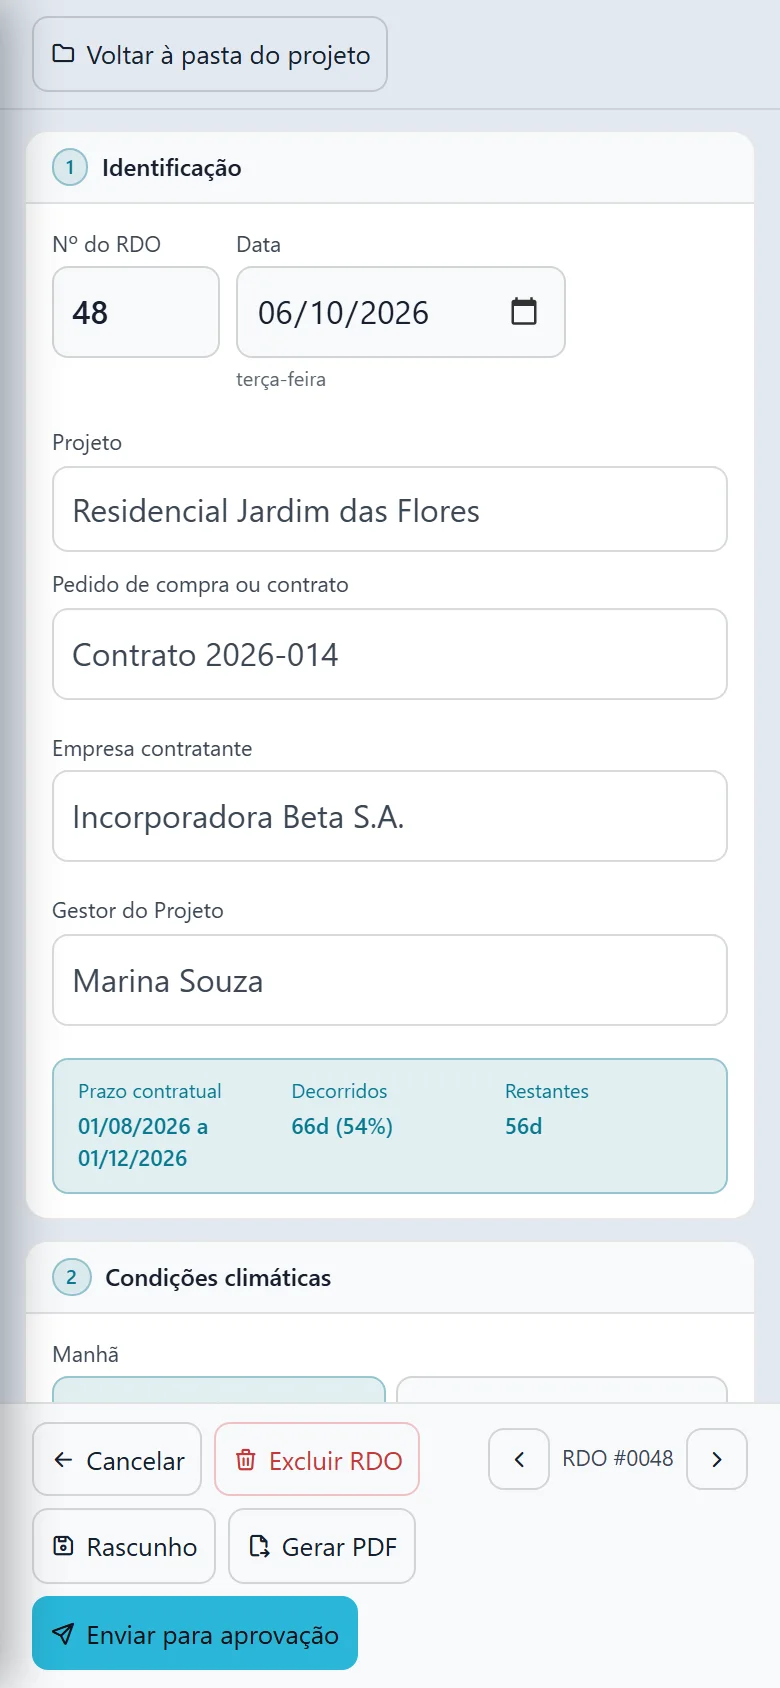
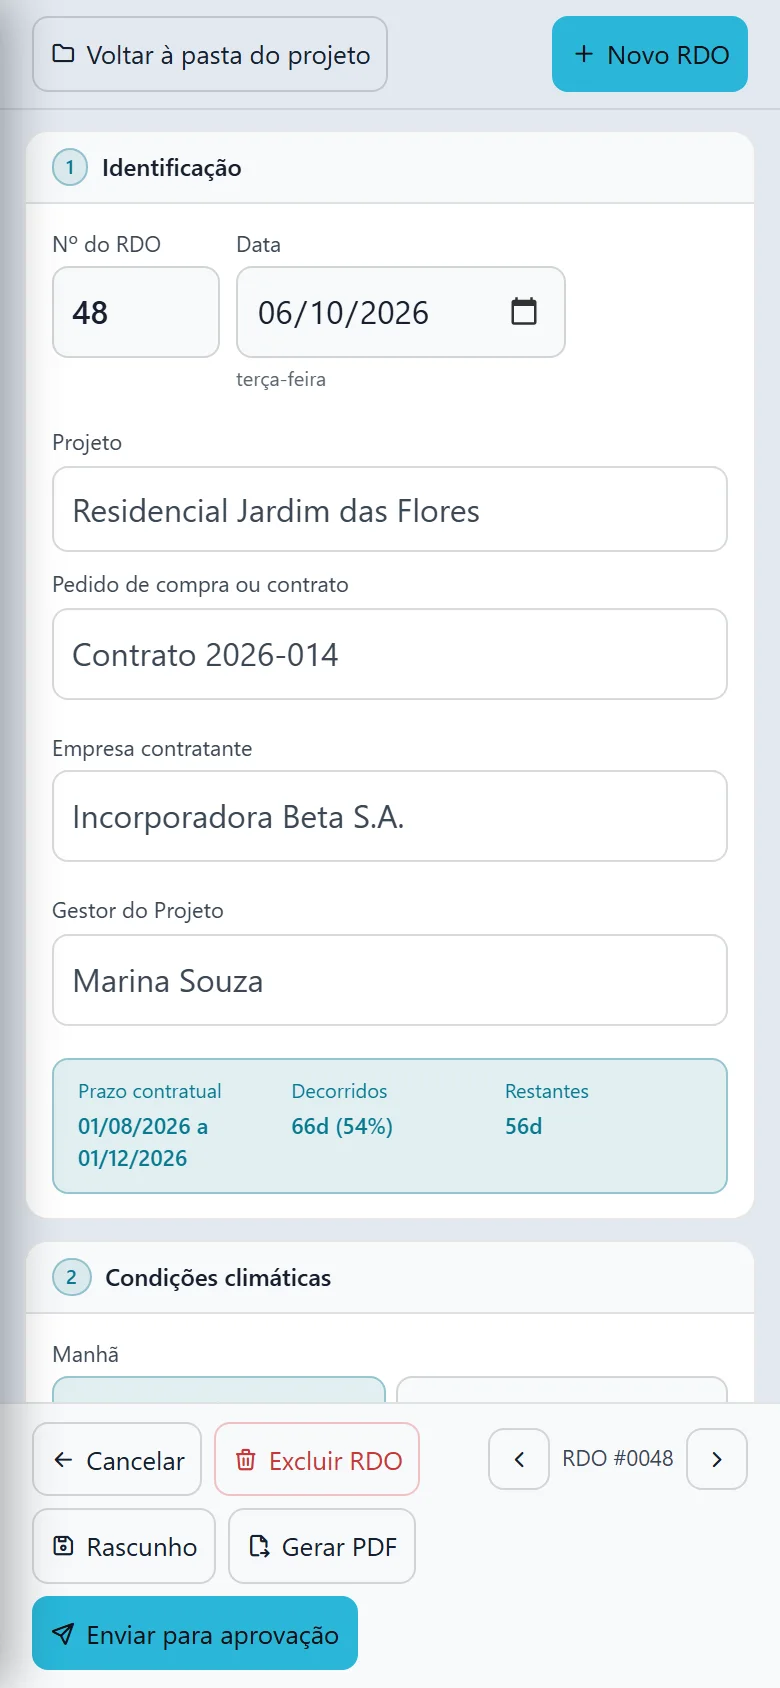
RDO: depois de enviar para aprovação continua na página do RDO e ganha botão Novo RDO
- fica no RDO (agora bloqueado) em vez de ir para a lista
- botão Novo RDO no alto do RDO e na tela de aprovação, com o projeto já selecionado
- manual, captura e teste e2e

Changed region(s): [[0.7077, 0.0, 0.9846, 0.0616]]

diff --git a/app/(app)/ajuda/conteudo.ts b/app/(app)/ajuda/conteudo.ts
@@ -299,6 +299,7 @@ export const SECOES: Secao[] = [
       { t: 'h', x: '8. Comentários' },
       { t: 'p', x: 'Converse com a equipe dentro do próprio RDO. Escreva e envie (atalho **Ctrl+Enter**). É possível responder a um comentário e excluir os seus.' },
       { t: 'img', src: '/ajuda/rdo-comentarios.webp', alt: 'Seção Comentários' },
+      { t: 'p', x: 'No alto da tela do RDO ficam dois botões: **Voltar à pasta do projeto** e **Novo RDO**. Com o RDO aberto (inclusive depois de enviado para aprovação), o **Novo RDO** abre o próximo RDO do mesmo projeto, já com o projeto selecionado, sem precisar ir para outra tela.' },
       { t: 'h', x: 'Barra de botões na parte de baixo' },
       { t: 'p', x: 'A barra fica sempre visível, no fim da tela, enquanto você preenche.' },
       { t: 'img', src: '/ajuda/rdo-barra-acoes.webp', alt: 'Barra inferior do RDO' },
@@ -311,7 +312,7 @@ export const SECOES: Secao[] = [
           ['Setas ‹ ›', 'Navegam para o RDO anterior ou o próximo do mesmo projeto, sem voltar à lista.'],
           ['Rascunho', 'Salva o que você preencheu e mantém o RDO como rascunho.'],
           ['Gerar PDF', 'Gera o PDF do RDO para guardar ou enviar.'],
-          ['Enviar para aprovação', 'Envia o RDO para os assinantes assinarem.'],
+          ['Enviar para aprovação', 'Envia o RDO para os assinantes assinarem. Você continua na tela do RDO, que passa a aparecer bloqueado para edição.'],
         ],
       },
       { t: 'dica', x: 'Salve o **Rascunho** com frequência. Só envie para aprovação quando o dia estiver completo: **depois de enviado, o RDO fica bloqueado para edição** e passa a abrir na tela de **Aprovação**, em modo leitura. Se precisar corrigir, use o botão **Voltar para rascunho** (veja a seção "Aprovação e assinatura"): as assinaturas já feitas são descartadas e o RDO precisa ser enviado de novo.' },

diff --git a/app/(app)/rdos/[id]/FormularioRdo.tsx b/app/(app)/rdos/[id]/FormularioRdo.tsx
@@ -653,11 +653,18 @@ export function FormularioRdo({ rdoId }: Props) {
       await salvar.mutateAsync({ id: rdoId, ...form })
       const res = await enviar.mutateAsync(rdoId)
       toast.success(`RDO #${numeroRdo(rdo?.numero ?? 0)} enviado para ${res.aprovadores} aprovador(es)!`)
-      router.push('/rdos')
+      // Continua nesta página: o RDO recarrega já bloqueado e dá para criar o próximo daqui
+      setDirty(false)
     } catch (err) {
       if (err instanceof LimitePlanoError) toast.error(err.message)
       else toast.error('Erro ao enviar RDO.')
     }
+  }
+
+  // Novo RDO do mesmo projeto, sem precisar sair para outra tela
+  function handleNovoRdo() {
+    if (dirty && !window.confirm('Há alterações não salvas neste RDO. Sair mesmo assim?')) return
+    router.push(`/rdos/novo?projetoId=${rdo?.projeto.id ?? ''}`)
   }
 
   async function handleVoltarRascunho() {
@@ -963,10 +970,15 @@ export function FormularioRdo({ rdoId }: Props) {
     <div style={{ display:'flex', flexDirection:'column', height:'100%', overflow:'hidden' }}>
 
       {/* ── Voltar à pasta do projeto ── */}
-      <div style={{ padding:'8px 16px', borderBottom:'.5px solid var(--b)', flexShrink:0 }}>
+      <div style={{ padding:'8px 16px', borderBottom:'.5px solid var(--b)', flexShrink:0, display:'flex', alignItems:'center', justifyContent:'space-between', gap:8, flexWrap:'wrap' }}>
         <button className="btn btn-sm" onClick={() => router.push(`/projetos/${rdo.projeto.id}`)}>
           <i className="ti ti-folder" /> Voltar à pasta do projeto
         </button>
+        {pode('emitir_rdo') && (
+          <button className="btn btn-p btn-sm" onClick={handleNovoRdo}>
+            <i className="ti ti-plus" /> Novo RDO
+          </button>
+        )}
       </div>
 
       {/* ── Banner aprovado ── */}

diff --git a/tests/e2e/rdo-enviar-permanece.spec.ts b/tests/e2e/rdo-enviar-permanece.spec.ts
@@ -1,0 +1,30 @@
+import { test, expect } from '@playwright/test'
+import { apiComo, login } from './helpers'
+import { PROJETO_ID } from '../../lib/fake-db-test'
+
+// Depois de enviar o RDO para aprovação a pessoa continua na página do RDO (que passa a
+// aparecer bloqueado) e tem um botão "Novo RDO" ali mesmo, já com o projeto selecionado,
+// para não precisar ir a outra tela. Ver handleEnviar/handleNovoRdo em FormularioRdo.tsx.
+
+test('enviar para aprovação mantém na página do RDO e oferece o botão Novo RDO', async ({ page, playwright }) => {
+  const api = await apiComo(playwright)
+  const criado = await api.post('/api/app/rdos', { data: { projetoId: PROJETO_ID, data: '2026-11-10', copiarAnterior: false } })
+  expect(criado.status()).toBe(201)
+  const { id } = await criado.json()
+  await api.dispose()
+
+  await login(page)
+  await page.goto(`/rdos/${id}`)
+
+  const enviou = page.waitForResponse(r => r.url().endsWith(`/api/app/rdos/${id}/enviar`) && r.request().method() === 'POST')
+  await page.getByRole('button', { name: /Enviar para aprovação/ }).click()
+  expect((await enviou).status()).toBe(200)
+
+  // continua no RDO, agora bloqueado, e não foi para a lista
+  await expect(page.getByText(/já foi enviado para aprovação e está bloqueado/)).toBeVisible()
+  expect(new URL(page.url()).pathname).toBe(`/rdos/${id}`)
+
+  // e dá para abrir um novo RDO do mesmo projeto direto daqui
+  await page.getByRole('button', { name: 'Novo RDO' }).click()
+  await page.waitForURL(`**/rdos/novo?projetoId=${PROJETO_ID}`)
+})

diff --git a/app/(app)/aprovacao/[id]/page.tsx b/app/(app)/aprovacao/[id]/page.tsx
@@ -825,6 +825,11 @@ export default function AprovacaoPage() {
             <button className="btn btn-sm" onClick={() => router.push('/rdos')}>
               <i className="ti ti-arrow-left" /> Voltar à lista
             </button>
+            {pode('emitir_rdo') && (
+              <button className="btn btn-p btn-sm" onClick={() => router.push(`/rdos/novo?projetoId=${rdo.projeto.id}`)}>
+                <i className="ti ti-plus" /> Novo RDO
+              </button>
+            )}
             {rdo.status !== 'RASCUNHO' && (
               pode('aprovar_rdo') ||
               (pode('emitir_rdo') && rdo.emissor.id === session?.usuario.id && rdo.status !== 'APROVADO')
